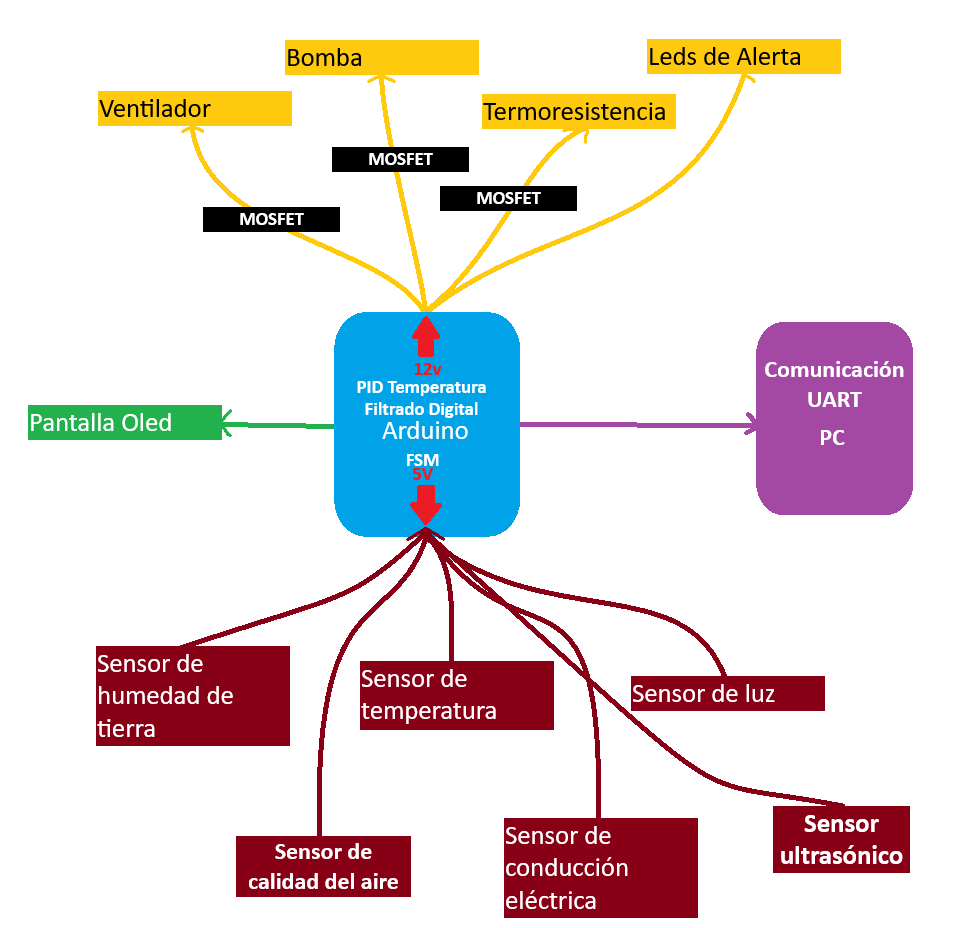
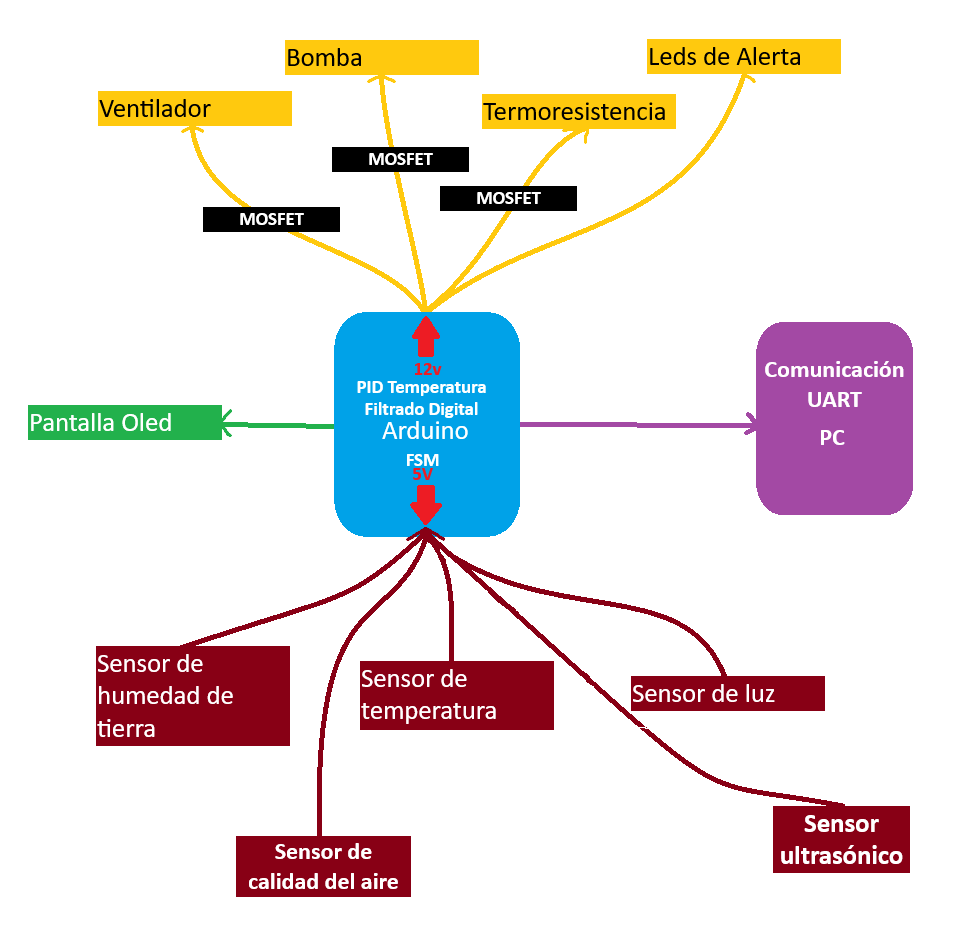
Esa vaina

Changed region(s): [[0.4974, 0.6875, 0.7461, 1.0], [0.5285, 0.6562, 0.5907, 0.6875], [0.4663, 0.5938, 0.4974, 0.625]]

diff --git a/Propuesta proyecto/template-propuesta-proyecto.md b/Propuesta proyecto/template-propuesta-proyecto.md
@@ -54,16 +54,8 @@ Dibujen un diagrama de bloques del sistema completo. Cada bloque debe ser un sub
 La arquitectura depende del tipo de proyecto. Algunos ejemplos:
 
 **Tipo A — Instrumento de medición / automatización:**
-```
-┌──────────┐    ┌──────────┐    ┌──────────┐
-│ SENSORES │ →  │ ARDUINO  │ →  │ACTUADORES│
-└──────────┘    └──────────┘    └──────────┘
-                      │
-               ┌──────┴──────┐
-               │  DISPLAY /  │
-               │  PC / LOG   │
-               └─────────────┘
-```
+
+![Diagrama de bloques circuito](Diagrama%20de%20bloques%20circuito.png)
 
 **Tipo B — Dispositivo interactivo (instrumento musical, juego, controlador):**
 ```
@@ -104,6 +96,9 @@ Marquen con ✅ y describan cómo aplican cada habilidad. Si un subsistema no us
 ## 4. Diseño Técnico
 
 ### 4.1 Diagrama Esquemático
+
+![Diagrama del circuito](Fantastic%20Allis-Vihelmo.png)
+
 
 Dibujen el esquemático completo mostrando:
 - Todos los pines de Arduino utilizados
